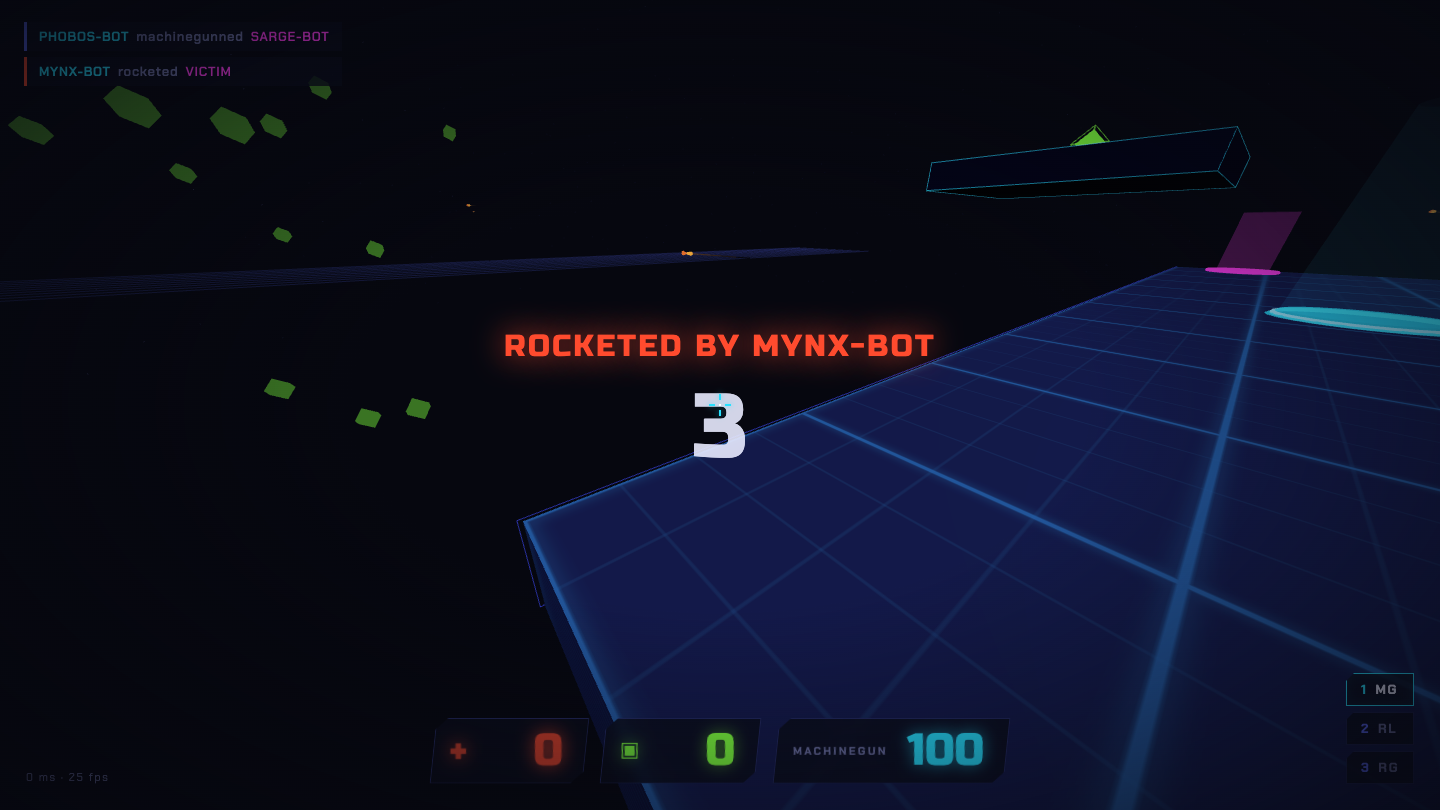
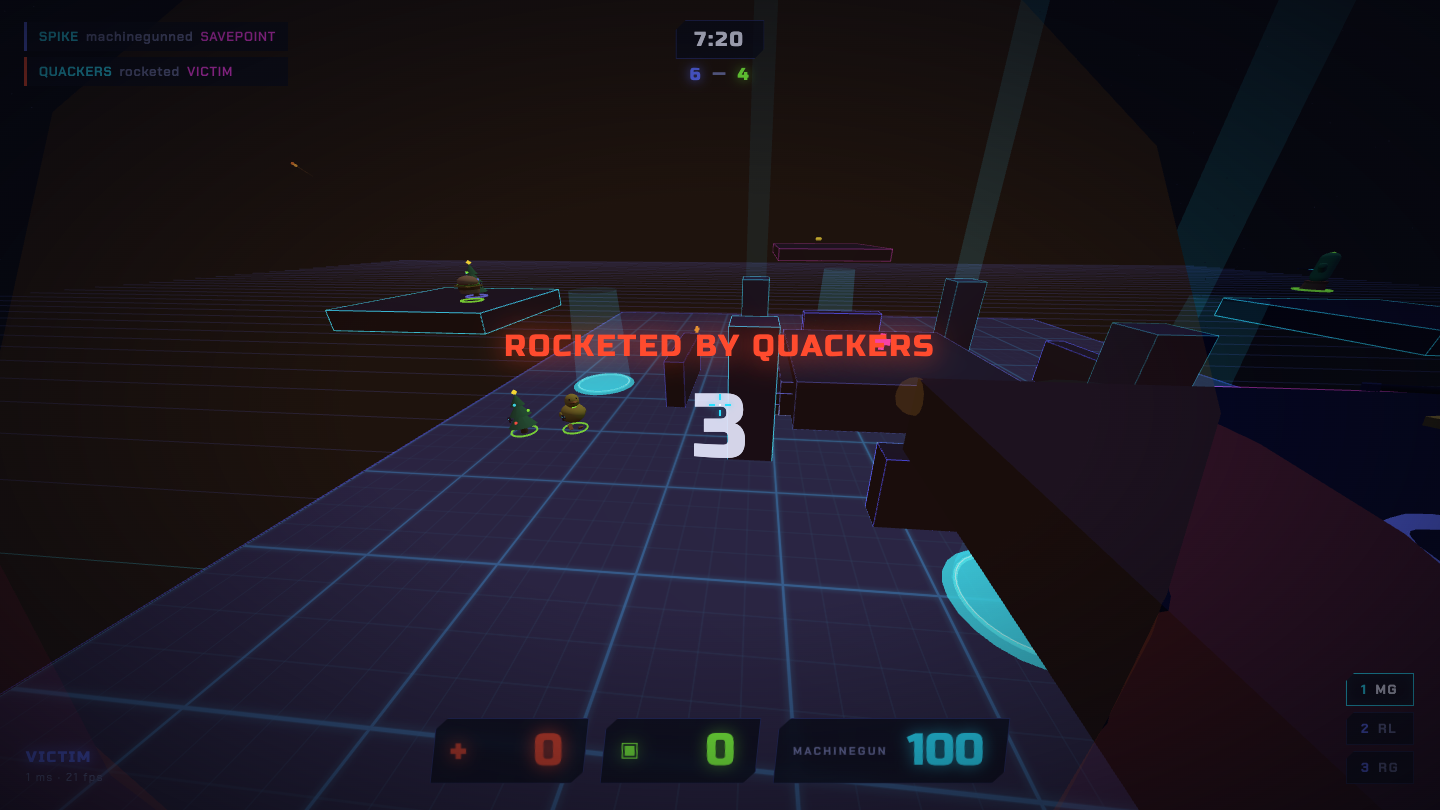
README + screenshots: team deathmatch era

diff --git a/README.md b/README.md
@@ -1,8 +1,8 @@
 # TINY ARENA
 
-Quake-style browser deathmatch in one 10 MB Go binary. The server, the bots, and the whole Tron-flavored Three.js client are baked into a single executable, so there is nothing to build and nothing for players to install.
+Quake-style team deathmatch in your browser, in one 10 MB Go binary. BLUE versus GREEN, forever. The server, the bots, and the whole Tron-flavored Three.js client are baked into a single executable, so there is nothing to build and nothing for players to install.
 
-**Play it live: [tinyarena.online](https://tinyarena.online)** — the bots are waiting.
+**Play it live: [tinyarena.online](https://tinyarena.online)** — the bots are already fighting; they don't wait for you.
 
 ![arena](docs/arena.png)
 
@@ -21,9 +21,9 @@ docker run -p 3377:3377 ghcr.io/tpoxa/tinyarena
 
 Colleagues on the same network: give them `http://<your-lan-ip>:3377`. That's the whole deployment story.
 
-Env: `PORT` (default 3377), `BOTS` (default 3), `MAP` (`neon-yard` or `circuit`), `MATCH_SECONDS` (default 480), `DEV=1` serves `public/` and `shared/` from disk so client edits apply on refresh.
+Env: `PORT` (default 3377), `BOTS` (default 3), `MAPS` (rotation order, default `neon-yard,circuit`), `MAP` (pin a single map, no rotation), `MATCH_SECONDS` (default 480), `DEV=1` serves `public/` and `shared/` from disk so client edits apply on refresh.
 
-Two maps ship in the binary. `neon-yard` is the classic yard with side platforms. `circuit` is a ring around a void pit: a mega-health island in the middle reached by two narrow bridges, four corner platforms fed by diagonal jump pads, and a teleporter out of the island when it gets too warm.
+Two maps ship in the binary, and the server rotates to the next one after every match — clients rebuild the world in place, mid-session, without a page reload. `neon-yard` is the classic yard with side platforms. `circuit` is a ring around a void pit: a mega-health island in the middle reached by two narrow bridges, four corner platforms fed by diagonal jump pads, and a teleporter out of the island when it gets too warm.
 
 ![circuit](docs/circuit.png)
 
@@ -57,7 +57,7 @@ Aim at someone to see their name. Yours is on the HUD.
 The Go server owns the truth. It runs the simulation at 30 Hz and sends snapshots at 20 Hz, all as plain JSON WebSocket messages you can read with `wscat`. Movement is client-predicted (Quake-style ground friction, air control, bunny-hop), but every shot is validated and resolved server-side: hitscan and rockets ray-march against player spheres and the map's AABBs, so a laggy client can't invent hits. Remote players render about 120 ms in the past and interpolate between snapshots.
 
 - `main.go` — WebSocket plumbing; one goroutine owns all game state, connections talk to it via channels
-- `game.go` — combat, pickups, streaks, quad, snapshots
+- `game.go` — teams, combat, pickups, streaks, quad, the match clock, map rotation, snapshots
 - `bots.go` — bots walk a line-of-sight waypoint graph (layer-aware, with walkability checks so nobody strolls into a void pit), ride jump pads up to the platforms, and switch to pure server-side ballistics when a rocket sends them flying
 - `arena.go` — map loading + AABB raycasts
 - `shared/maps/*.json` — each map is one JSON file (geometry, weapons, balance, nav graph) read by both Go and JS; the server serves the active one to the browser